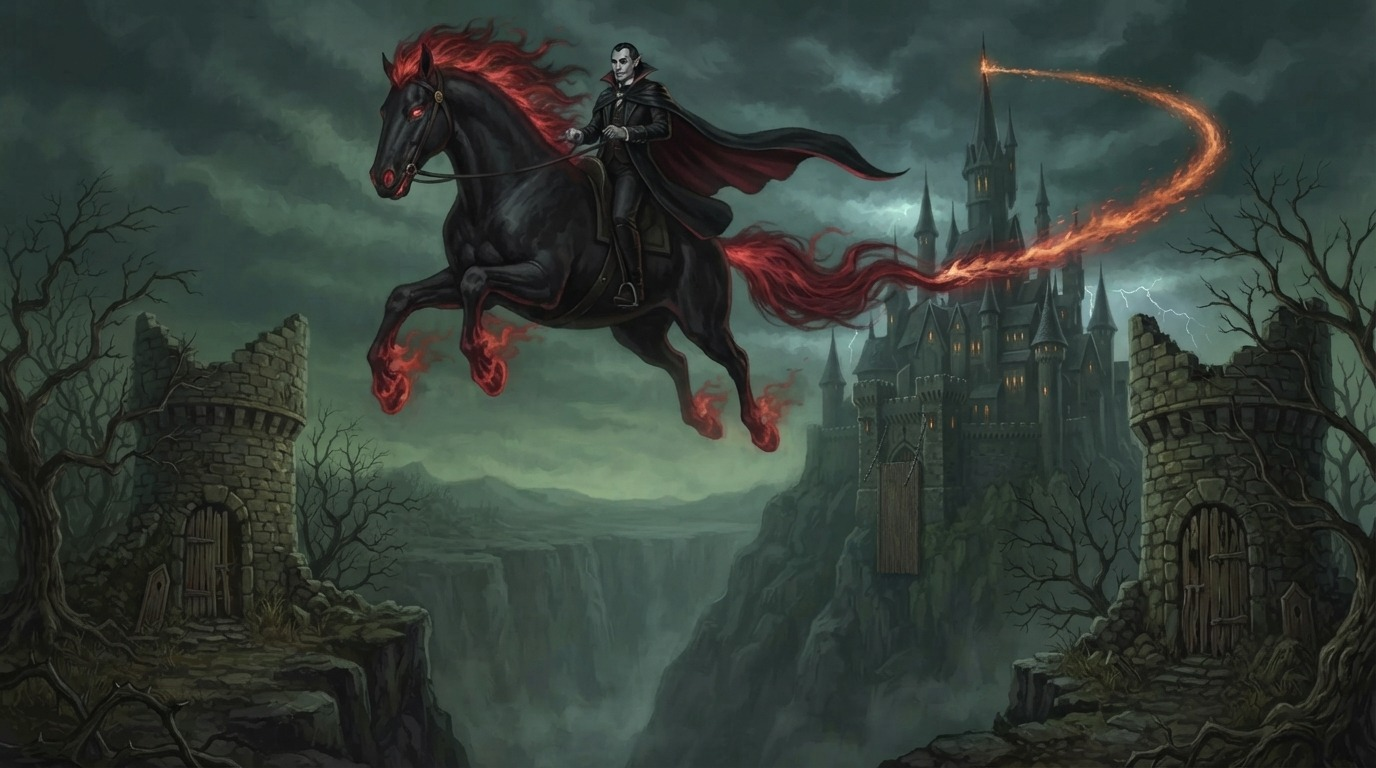
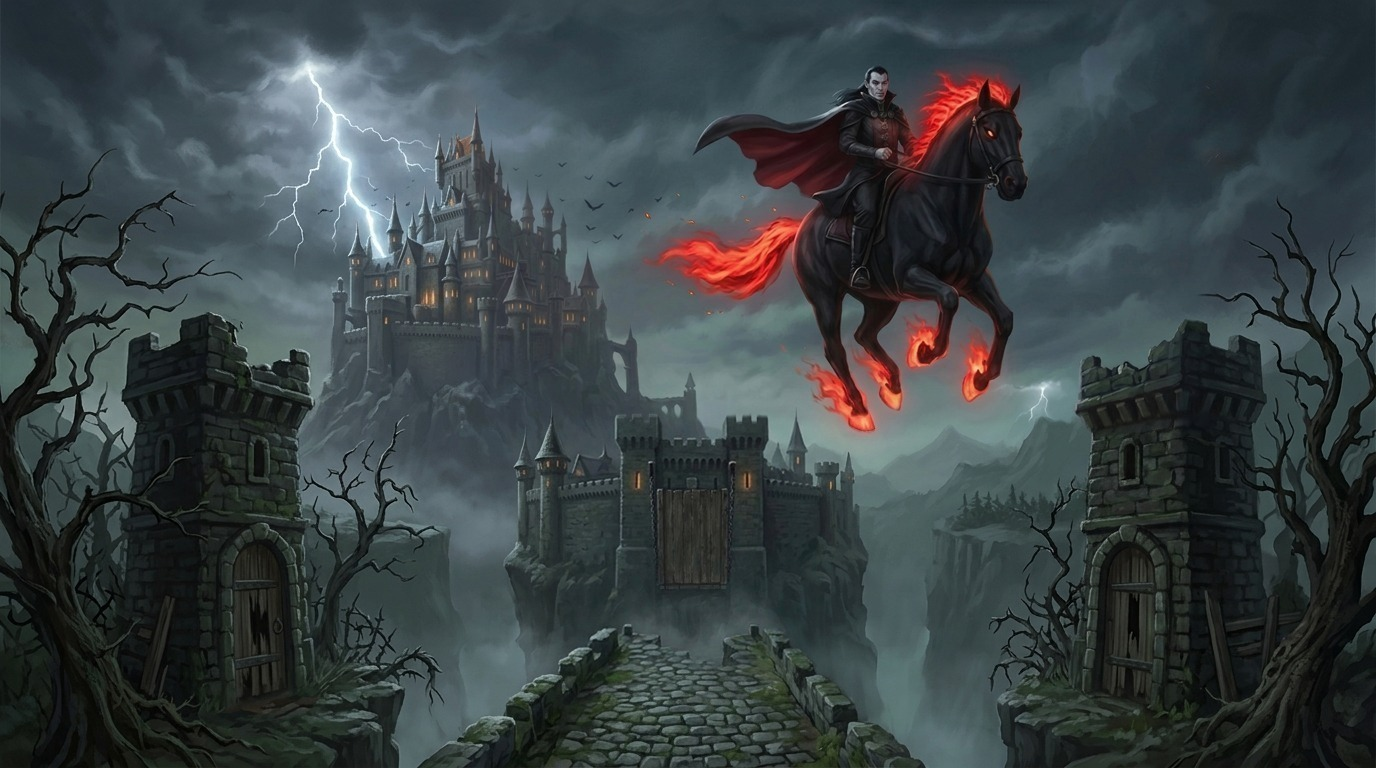
Beucephalus: narrow 50-foot chasm the raised drawbridge could span
Chris asked how the drawbridge could reach: the first repaint painted a
canyon hundreds of feet wide. Now the road runs straight to the gate across
a narrow chasm, drawbridge raised and chained; the looping fire trail is
removed. Region edits for the gate and sky; independent look check passed.

Claude-Session: https://claude.ai/code/session_01U8i5qV2yjH33xRNCtxjxHP

diff --git a/content/posts/2026-02-10-unwelcome-guests.md b/content/posts/2026-02-10-unwelcome-guests.md
@@ -24,7 +24,7 @@ Note: The party briefly debated a "Trojan Bunny" strategy, or stealing the Vista
 
 At the edge of the precipice we watched Strahd von Zarovich ride out of the castle on his nightmare, Beucephalus. With the master gone, Aera made herself invisible and Crusty gave her the power to fly. She soared across the chasm and came up behind the wights on the ramparts. With a conjured hand she picked the alarm horn from the first wight’s pocket, then took the second wight’s horn as well. It nearly went very wrong when she tried a running somersault dropkick to send one of them off the edge. She stumbled and bounced off the guard, and the kick undid her invisibility. The fight broke out, and we destroyed the wights. Aera poured oil on the drawbridge chains to quiet them, and we lowered the drawbridge and reached the servants’ entrance.
 
-![Strahd on Beucephalus, a black nightmare with a burning mane, flying at night from the highest tower of Castle Ravenloft over the chasm, the drawbridge raised](/images/beucephalus-ai.jpg)
+![Strahd on Beucephalus, a black nightmare with a burning mane, flying at night from Castle Ravenloft over the narrow chasm, the drawbridge raised at the end of the road](/images/beucephalus-ai.jpg)
 
 *AI-generated image (Google Gemini, October 2026). Not official art.*
 

diff --git a/content/wiki/beucephalus.md b/content/wiki/beucephalus.md
@@ -7,7 +7,7 @@ source: Compiled from the adventure log, with a description written for the site
 
 ## Description
 
-![Strahd on Beucephalus, a black nightmare with a burning mane, flying at night from the highest tower of Castle Ravenloft over the chasm, the drawbridge raised](/images/beucephalus-ai.jpg)
+![Strahd on Beucephalus, a black nightmare with a burning mane, flying at night from Castle Ravenloft over the narrow chasm, the drawbridge raised at the end of the road](/images/beucephalus-ai.jpg)
 
 *AI-generated image (Google Gemini, October 2026), drawn from this page and the session logs. Not official art.*
 
